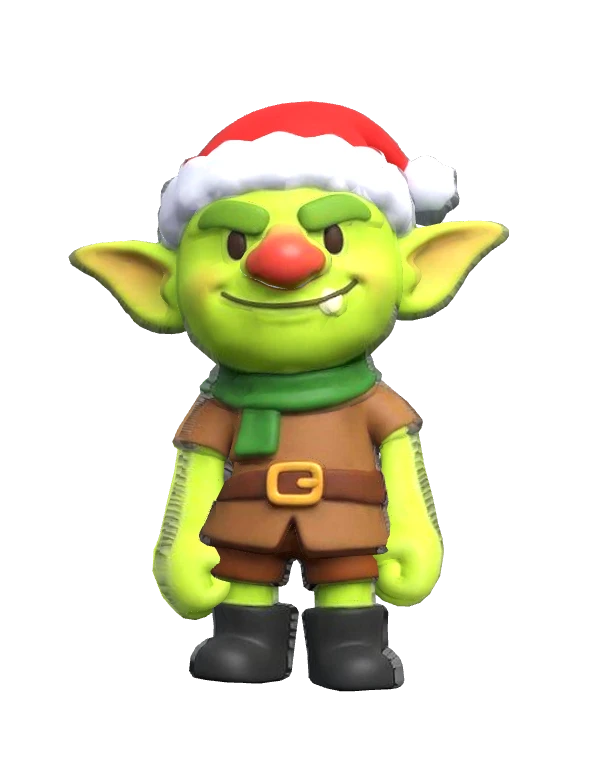
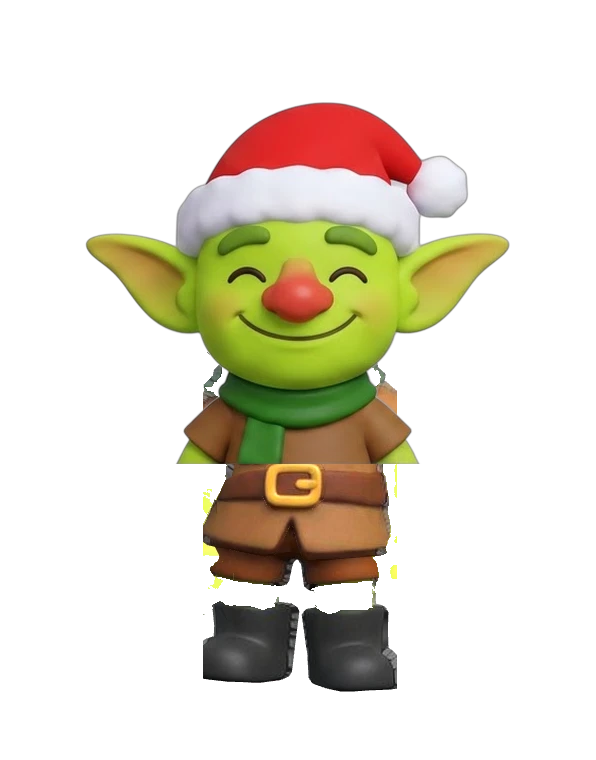
Zibo'nun 12 yüz ifadesi (Gemini) 3D gövdeyle birleştirildi
Claude-Session: https://claude.ai/code/session_0191AENRj6NxBSee7MxoHGTm

Changed region(s): [[0.1208, 0.1211, 0.8758, 0.8474], [0.302, 0.8474, 0.3624, 0.9079], [0.6644, 0.8474, 0.6946, 0.9079]]

diff --git a/js/core/assets.js b/js/core/assets.js
@@ -11,11 +11,13 @@ CZ.OVERRIDES = {
   'zibo.laugh': 'assets/zibo/png/laugh.webp',
   'zibo.taunt': 'assets/zibo/png/taunt.webp',
   'zibo.tongue': 'assets/zibo/png/taunt.webp',
-  'zibo.mad': 'assets/zibo/png/angry.webp',
+  'zibo.mad': 'assets/zibo/png/mad.webp',
   'zibo.angry': 'assets/zibo/png/angry.webp',
-  'zibo.nervous': 'assets/zibo/png/scared.webp',
+  'zibo.nervous': 'assets/zibo/png/nervous.webp',
   'zibo.scared': 'assets/zibo/png/scared.webp',
-  'zibo.tantrum': 'assets/zibo/png/cry.webp',
+  'zibo.tantrum': 'assets/zibo/png/mad.webp',
+  'zibo.evil': 'assets/zibo/png/evil.webp',
+  'zibo.coin': 'assets/zibo/png/coin.webp',
   'zibo.cry': 'assets/zibo/png/cry.webp',
   'zibo.dizzy': 'assets/zibo/png/dizzy.webp',
   'zibo.throw': 'assets/zibo/png/throw.webp',

diff --git a/sw.js b/sw.js
@@ -1,6 +1,6 @@
 // İnternetsiz çalışma. Önce ağı dener (yeni görseller hemen görünsün), ağ yoksa hafızadan verir.
 importScripts('sw-files.js');
-const CACHE = 'catchzibo-v153';
+const CACHE = 'catchzibo-v154';
 
 // İlk açılışta yalnız oyunun çekirdeği (kod, yazı tipi, arayüz) iner; görseller oynadıkça önbelleğe girer.
 // Böylece telefon ilk açılışta yüzlerce dosya indirmez.

diff --git a/sw-files.js b/sw-files.js
@@ -496,6 +496,8 @@ self.CZ_FILES = [
  "assets/zibo/mad.svg",
  "assets/zibo/nervous.svg",
  "assets/zibo/png/angry.webp",
+ "assets/zibo/png/coin.webp",
+ "assets/zibo/png/evil.webp",
  "assets/zibo/png/back.webp",
  "assets/zibo/png/back1.webp",
  "assets/zibo/png/back2.webp",

diff --git a/cizim/yuz_birlestir.py b/cizim/yuz_birlestir.py
@@ -1,0 +1,36 @@
+import numpy as np,sys
+from PIL import Image
+def ears(a,top_frac):
+  A=np.array(a.getchannel('A'))>60;ys,xs=np.nonzero(A);top=ys.min();h=ys.max()-top
+  best=(0,0,0,0)
+  for y in range(top,top+int(h*top_frac)):
+    r=np.nonzero(A[y])[0]
+    if len(r) and r.max()-r.min()>best[0]: best=(r.max()-r.min(),y,r.min(),r.max())
+  return top,best
+def comp(body_p,bust_p,out,cut=0.80):
+  b=Image.open(body_p).convert('RGBA');f=Image.open(bust_p).convert('RGBA')
+  bt,(bw,by,bx0,bx1)=ears(b,0.35);ft,(fw,fy,fx0,fx1)=ears(f,0.75)
+  s=bw/fw;f=f.resize((int(f.width*s),int(f.height*s)),Image.LANCZOS)
+  fy=fy*s;fx0=fx0*s;ft=ft*s
+  # cut bust below chin: keep rows down to 'cut' of bust height (above scarf)
+  keep=int(f.height*cut);m=Image.new('L',f.size,0);mk=np.zeros((f.height,f.width),np.uint8);fade=int(f.height*0.06)
+  for y in range(f.height):
+    mk[y]=255 if y<keep-fade else max(0,int(255*(keep-y)/fade)) if y<keep else 0
+  a=np.array(f.getchannel('A')).astype(int)*mk//255;f.putalpha(Image.fromarray(a.astype(np.uint8)))
+  ox=int(bx0-fx0);oy=int(by-fy)
+  c=b.copy();c.alpha_composite(f,(max(0,ox),max(0,oy)) if ox>=0 and oy>=0 else (0,0))
+  if ox<0 or oy<0:
+    c=Image.new('RGBA',b.size);c.alpha_composite(b);c.paste(f,(ox,oy),f)
+  c.save(out)
+for n in sys.argv[2:]: comp(sys.argv[1],n+'.png','c_'+n+'.png')
+
+def comp_full(body_p,bust_p,out):
+  # büstün tamamı (kollar dahil) + gövde render'ının yalnız alt kısmı (bacaklar), yan sarkan kollar silinir
+  b=Image.open(body_p).convert('RGBA');f=Image.open(bust_p).convert('RGBA')
+  bt,(bw,by,bx0,bx1)=ears(b,0.35);ft,(fw,fy,fx0,fx1)=ears(f,0.75)
+  s=bw/fw;f=f.resize((int(f.width*s),int(f.height*s)),Image.LANCZOS)
+  ox=int(bx0-fx0*s);oy=int(by-fy*s)
+  B=np.array(b);AB=B[:,:,3]>60;ys=np.nonzero(AB.any(1))[0];yl=int(ys.min()+(ys.max()-ys.min())*0.9)
+  r=np.nonzero(AB[yl])[0];c=(r.min()+r.max())/2;hw=(r.max()-r.min())/2*1.12
+  B[:,:int(c-hw),3]=0;B[:,int(c+hw):,3]=0;R_,G_,Bb=[B[:,:,k].astype(int) for k in range(3)];gr=(G_>R_*1.08)&(G_>Bb*1.3);yk=int(ys.min()+(ys.max()-ys.min())*0.87);gm=np.zeros_like(gr);gm[:yk]=gr[:yk];B[gm,3]=0;B[:by+int((bx1-bx0)*0.25),:,3]=0
+  c=Image.new('RGBA',b.size);c.alpha_composite(Image.fromarray(B));c.paste(f,(ox,oy),f);c.save(out)
